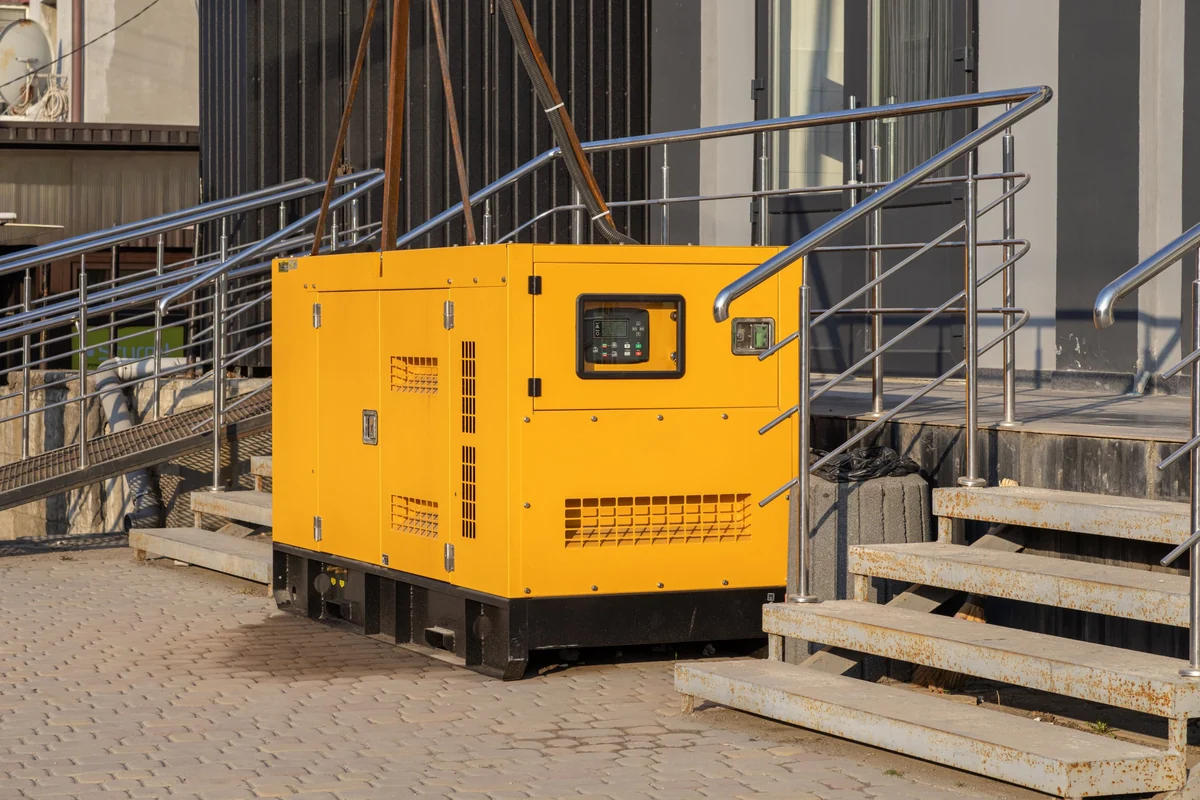
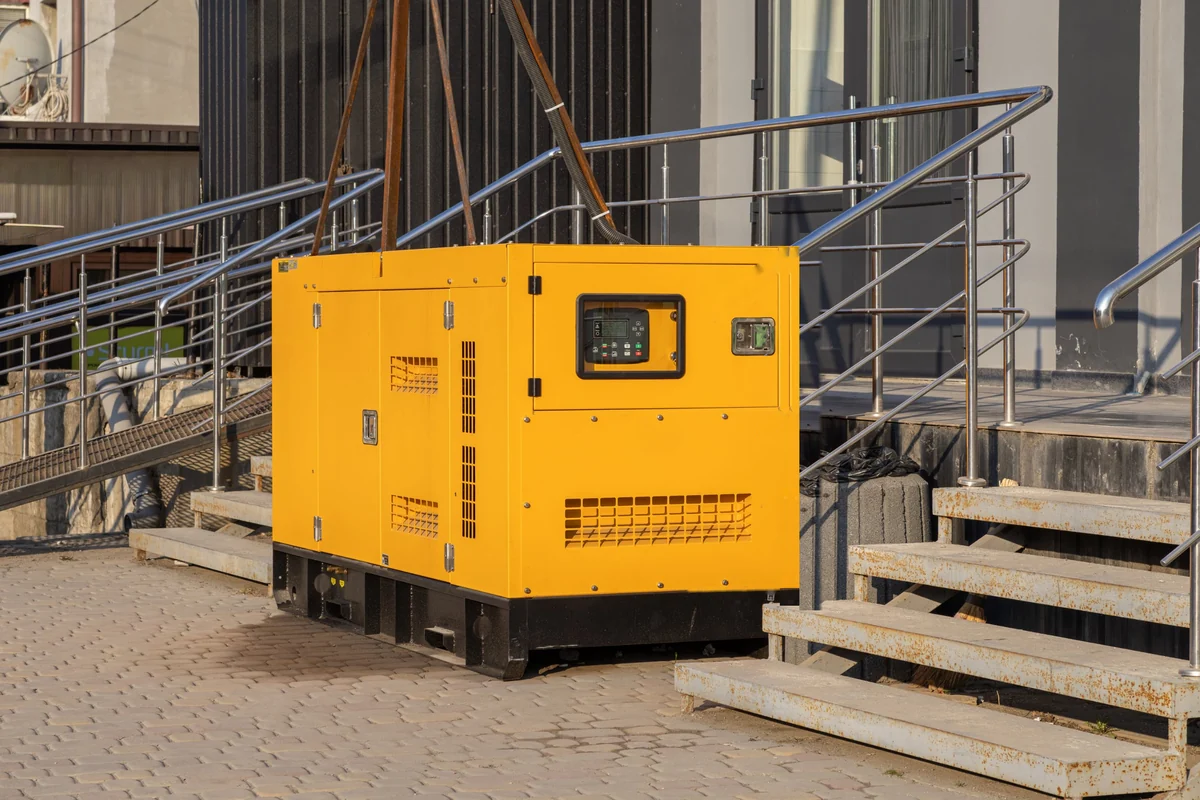
Add files via upload

Changed region(s): [[0.5858, 0.2812, 0.7092, 0.7812]]

diff --git a/index.html b/index.html
@@ -25,7 +25,7 @@
 <link rel="icon" type="image/png" sizes="32x32" href="assets/favicon-32.png">
 <link rel="icon" type="image/png" sizes="192x192" href="assets/icon-192.png">
 <link rel="apple-touch-icon" href="assets/apple-touch-icon.png">
-<link rel="preload" as="image" href="assets/capa-1800.webp" imagesrcset="assets/capa-1200.webp 1200w, assets/capa-1800.webp 1800w, assets/capa-2576.webp 2576w" imagesizes="(min-width:960px) 100vw, 160vw" fetchpriority="high">
+<link rel="preload" as="image" href="assets/capa-1800.webp?v=2" imagesrcset="assets/capa-1200.webp?v=2 1200w, assets/capa-1800.webp?v=2 1800w, assets/capa-2576.webp?v=2 2576w" imagesizes="(min-width:960px) 100vw, 160vw" fetchpriority="high">
 <link rel="preconnect" href="https://fonts.googleapis.com">
 <link rel="preconnect" href="https://fonts.gstatic.com" crossorigin>
 <link href="https://fonts.googleapis.com/css2?family=Lexend:wght@300;400;500;600;700;800&display=swap" rel="stylesheet">
@@ -559,7 +559,7 @@
   .en-faisca{stroke:var(--laranja);stroke-width:2.6;stroke-dasharray:.09 .91;stroke-dashoffset:1;animation:corrente 3.4s cubic-bezier(.45,.05,.55,.95) infinite}
   .hero .en-faisca{animation-direction:reverse}
   .en-faisca.dois{stroke:#FFD2B0;stroke-width:1.6;stroke-dasharray:.03 .97;animation-delay:1.7s;animation-duration:3.4s}
-  @keyframes corrente{from{stroke-dashoffset:1}to{stroke-dashoffset:-.09}}
+  @keyframes corrente{from{stroke-dashoffset:1}to{stroke-dashoffset:0}}
   /* Capa liga como um gerador partindo */
   .hero-bg img{animation:capaZoom 2.6s cubic-bezier(.22,1,.36,1) forwards,liga 1.5s .15s linear both}
   @keyframes liga{0%{filter:brightness(.12) saturate(.4)}10%{filter:brightness(.9)}13%{filter:brightness(.18)}22%{filter:brightness(1.05)}25%{filter:brightness(.35)}34%{filter:brightness(1.15) saturate(1.1)}60%,100%{filter:brightness(1) saturate(1)}}
@@ -662,12 +662,8 @@
   }
   /* Bases clicáveis */
   .base{text-align:left;color:var(--tinta);display:flex;flex-direction:column;gap:2px;transition:transform .2s,border-color .2s,box-shadow .2s}
-  .base:hover{transform:translateY(-3px);border-color:var(--laranja);box-shadow:0 14px 26px -16px rgba(254,102,0,.6)}
   .base i{font-style:normal;margin-top:8px;display:inline-flex;align-items:center;gap:6px;font-size:.8rem;font-weight:700;color:var(--laranja)}
   .base i svg{width:14px;height:14px}
-  .mapa .alvo{cursor:pointer}
-  .mapa .alvo:hover rect{fill:var(--laranja)}
-  .mapa .alvo:hover text{fill:#fff}
   .selo-foto{background:none!important;backdrop-filter:none!important;-webkit-backdrop-filter:none!important;padding:0!important;color:#E8E8E8;text-shadow:0 2px 10px rgba(0,0,0,.8)}
   /* Desempenho: animações pausam fora da tela e sem desfoque no celular */
   .fora,.fora *,.ev.fora::before{animation-play-state:paused!important}
@@ -733,15 +729,21 @@
   @media (prefers-reduced-motion:reduce){.hero-bg::before{animation:none}}
   @media (min-width:960px){
     .hero-bg{left:auto;right:0;width:min(68vw,1200px);top:-18%;height:118%}
-    .hero-bg img{object-position:19% 50%}
-    .hero-bg::after{background:linear-gradient(90deg,#0E0E0E 0%,rgba(14,14,14,.6) 14%,rgba(14,14,14,0) 34%),linear-gradient(0deg,#0E0E0E 0%,rgba(14,14,14,0) 26%),linear-gradient(180deg,rgba(14,14,14,.6) 0%,rgba(14,14,14,0) 30%),linear-gradient(270deg,#0E0E0E 0%,rgba(14,14,14,.75) 5%,rgba(14,14,14,0) 14%),radial-gradient(40% 45% at 100% 100%,#0E0E0E 0%,rgba(14,14,14,.85) 40%,rgba(14,14,14,0) 100%)!important}
+    .hero-bg img{object-position:30% 50%}
     .hero-grade{padding-block:160px 80px!important}
   }
-  @media (min-width:1500px){.hero-bg img{object-position:4% 50%}}
   @media (min-width:960px) and (max-width:1199px){
     .hero-bg{width:66vw;top:0;height:100%}
     .hero-bg img{object-position:40% 55%}
   }
+  /* Fotos coloridas com aproximar e afastar suave */
+  .serv-foto img,.serv-foto.pb img{filter:none!important;transform:scale(1);animation:respira 14s ease-in-out infinite alternate;will-change:transform}
+  .serv:nth-child(3) .serv-foto img{animation-delay:-4s}
+  .serv:nth-child(4) .serv-foto img{animation-delay:-8s}
+  .serv:hover .serv-foto img{transform:none}
+  @keyframes respira{from{transform:scale(1)}to{transform:scale(1.08)}}
+  .ev-foto img{animation:respira 16s ease-in-out infinite alternate}
+  @media (prefers-reduced-motion:reduce){.serv-foto img,.ev-foto img{animation:none}}
 </style>
 <script>document.documentElement.classList.add('js')</script>
 </head>
@@ -757,7 +759,7 @@
 
 <section class="hero">
   <div class="hero-bg" aria-hidden="true">
-    <img src="assets/capa-1800.webp" srcset="assets/capa-1200.webp 1200w, assets/capa-1800.webp 1800w, assets/capa-2576.webp 2576w" sizes="(min-width:960px) 100vw, 160vw" alt="" width="2576" height="1717" fetchpriority="high" decoding="async">
+    <img src="assets/capa-1800.webp?v=2" srcset="assets/capa-1200.webp?v=2 1200w, assets/capa-1800.webp?v=2 1800w, assets/capa-2576.webp?v=2 2576w" sizes="(min-width:960px) 100vw, 160vw" alt="" width="2576" height="1717" fetchpriority="high" decoding="async">
   </div>
   <div class="gen" id="gen" aria-hidden="true"></div>
   <span class="selo-foto"><svg viewBox="0 0 24 24" fill="none" stroke="currentColor" stroke-width="1.8" stroke-linecap="round" stroke-linejoin="round"><path d="M12 3l7.5 3v5.5c0 4.5-3.1 8.2-7.5 9.5-4.4-1.3-7.5-5-7.5-9.5V6z"/><path d="M8.8 12l2.3 2.3 4.2-4.6"/></svg>Distribuidor Geraforte</span>
@@ -805,7 +807,7 @@
         <span class="loc-cta">Solicitar orçamento <svg viewBox="0 0 24 24" fill="none" stroke="currentColor" stroke-width="2.4" stroke-linecap="round" stroke-linejoin="round"><path d="M5 12h14M13 6l6 6-6 6"/></svg></span>
       </button>
       <button class="serv vertical alt revela" data-servico="Manutenção" data-evento="servico_manutencao">
-        <span class="serv-foto retrato pb"><img src="assets/tecnico.webp" alt="Técnico da equipe própria fazendo manutenção" width="667" height="1000" loading="lazy"><span class="serv-num">24H</span></span>
+        <span class="serv-foto retrato "><img src="assets/tecnico.webp" alt="Técnico da equipe própria fazendo manutenção" width="667" height="1000" loading="lazy"><span class="serv-num">24H</span></span>
         <span class="serv-corpo"><span class="serv-titulo"><span class="serv-icos"><span class="serv-ico"><svg viewBox="0 0 64 64" fill="none" stroke="currentColor" stroke-width="3" stroke-linecap="round" stroke-linejoin="round" aria-hidden="true"><path pathLength="1" d="M42 8a9 9 0 0 0-8 12L12 42a4 4 0 0 0 6 6l22-22a9 9 0 0 0 12-8l-6 2-4-4 2-6a9 9 0 0 0-2-2z"/><path pathLength="1" d="M20 12l8 8M14 18l6-6 4 4-6 6zM38 40l12 12a4 4 0 0 0 6-6L44 34"/></svg></span><span class="serv-ico"><svg viewBox="0 0 64 64" fill="none" stroke="currentColor" stroke-width="3" stroke-linecap="round" stroke-linejoin="round" aria-hidden="true"><path pathLength="1" d="M20 18c0-6 4-9 9-9s9 3 9 9M18 18h22M22 18v4a7 7 0 0 0 14 0v-4"/><path pathLength="1" d="M14 56V44c0-6 5-10 10-10h10c3 0 5 1 7 3M24 34l5 8 5-8M29 42v14"/><path pathLength="1" d="M40 46h10M50 46a6 6 0 1 0 6-6v4h-4v4h4a6 6 0 0 1-6-2"/></svg></span></span><span>Manutenção e assistência técnica</span></span><span class="serv-texto"><p>Preventiva e corretiva, com equipe técnica própria a qualquer hora.</p><span class="pedir">Solicitar <svg viewBox="0 0 24 24" fill="none" stroke="currentColor" stroke-width="2.4" stroke-linecap="round" stroke-linejoin="round"><path d="M5 12h14M13 6l6 6-6 6"/></svg></span></span></span>
       </button>
       <button class="serv vertical revela" data-servico="Compra de gerador" data-evento="servico_venda">
@@ -813,14 +815,9 @@
         <span class="serv-corpo"><span class="serv-titulo"><span class="serv-icos"><span class="serv-ico"><svg viewBox="0 0 64 64" fill="none" stroke="currentColor" stroke-width="3" stroke-linecap="round" stroke-linejoin="round" aria-hidden="true"><path pathLength="1" d="M8 22h48v26H8zM12 48v5M52 48v5M8 53h48M24 22v-6h14v6M38 16h4v-4"/><path pathLength="1" d="M13 27h10v6H13zM13 37h10M13 42h10M28 27v16M33 27h18v16H33zM43 29l-4 7h5l-3 6"/></svg></span><span class="serv-ico"><svg viewBox="0 0 64 64" fill="none" stroke="currentColor" stroke-width="3" stroke-linecap="round" stroke-linejoin="round" aria-hidden="true"><path pathLength="1" d="M24 22l3-5 5 2 2-5 6 2-1 5 5 3-2 5 4 4-4 4 1 5-5 2-1 5-6-1-3 4-4-3-5 2-2-5-5-1 1-6-4-3 3-5-2-5 5-1z"/><circle pathLength="1" cx="27" cy="34" r="6"/><path pathLength="1" d="M46 12l2-3 3 1 2-2 3 2-1 3 3 2-1 3 2 2-3 2v3l-3 1-1 3-3-1-2 2-2-2-3 1-1-3-3-1 1-3-2-2 2-3-1-3 3-1z"/><circle pathLength="1" cx="48" cy="20" r="3.5"/></svg></span></span><span>Venda de geradores e peças</span></span><span class="serv-texto"><p>Geradores Geraforte, peças e soluções fabricadas sob medida.</p><span class="pedir">Solicitar <svg viewBox="0 0 24 24" fill="none" stroke="currentColor" stroke-width="2.4" stroke-linecap="round" stroke-linejoin="round"><path d="M5 12h14M13 6l6 6-6 6"/></svg></span></span></span>
       </button>
       <button class="serv alt revela" data-servico="Análise de energia" data-evento="servico_analise">
-        <span class="serv-foto paisagem pb"><img src="assets/tecnico-capacete.webp" alt="Técnico avaliando a instalação elétrica" width="1000" height="667" loading="lazy"><span class="serv-num">ANÁLISE</span></span>
+        <span class="serv-foto paisagem "><img src="assets/tecnico-capacete.webp" alt="Técnico avaliando a instalação elétrica" width="1000" height="667" loading="lazy"><span class="serv-num">ANÁLISE</span></span>
         <span class="serv-corpo"><span class="serv-titulo"><span class="serv-icos"><span class="serv-ico"><svg viewBox="0 0 64 64" fill="none" stroke="currentColor" stroke-width="3" stroke-linecap="round" stroke-linejoin="round" aria-hidden="true"><path pathLength="1" d="M52 22a22 22 0 0 0-36-10M12 42a22 22 0 0 0 36 10M14 6v7h7M50 58v-7h-7"/><circle pathLength="1" cx="27" cy="27" r="8"/><path pathLength="1" d="M33 33l5 5M30 46v-4M36 46v-8M42 46v-12M48 46v-16"/></svg></span></span><span>Análise de energia</span></span><span class="serv-texto"><p>Dimensionamos o gerador ideal, com eficiência, economia e segurança para a sua operação.</p><span class="pedir">Solicitar análise <svg viewBox="0 0 24 24" fill="none" stroke="currentColor" stroke-width="2.4" stroke-linecap="round" stroke-linejoin="round"><path d="M5 12h14M13 6l6 6-6 6"/></svg></span></span></span>
       </button>
-      <div class="serv-cta revela">
-        <div class="pilulas"><span class="pilula escura">Não sabe a</span><span class="pilula clara">potência?</span></div>
-        <p>Use a calculadora de carga e veja uma estimativa do gerador ideal em poucos cliques.</p>
-        <a class="btn btn-preto" href="#calculadora" data-evento="calculadora_atalho">Calcular minha carga <svg viewBox="0 0 24 24" fill="none" stroke="currentColor" stroke-width="2.4" stroke-linecap="round" stroke-linejoin="round"><path d="M5 12h14M13 6l6 6-6 6"/></svg></a>
-      </div>
     </div>
   </div>
 </section>
@@ -910,8 +907,8 @@
       <h2 class="titulo-sec">Do litoral ao Cariri, <em>sem deixar parar.</em></h2>
       <p class="sub-sec">Bases em Fortaleza e em Barbalha para atender o Ceará de ponta a ponta.</p>
       <div class="bases-cards">
-        <button class="base" type="button" data-cidade="Fortaleza"><b>Fortaleza</b><span>Capital e Região Metropolitana</span><i>Solicitar <svg viewBox="0 0 24 24" fill="none" stroke="currentColor" stroke-width="2.4" stroke-linecap="round" stroke-linejoin="round"><path d="M5 12h14M13 6l6 6-6 6"/></svg></i></button>
-        <button class="base" type="button" data-cidade="Barbalha"><b>Barbalha</b><span>Cariri e interior do estado</span><i>Solicitar <svg viewBox="0 0 24 24" fill="none" stroke="currentColor" stroke-width="2.4" stroke-linecap="round" stroke-linejoin="round"><path d="M5 12h14M13 6l6 6-6 6"/></svg></i></button>
+        <div class="base"><b>Fortaleza</b><span>Capital e Região Metropolitana</span></div>
+        <div class="base"><b>Barbalha</b><span>Cariri e interior do estado</span></div>
       </div>
     </div>
     <div class="mapa revela" role="img" aria-label="Mapa do Ceará com as bases da Botelho em Fortaleza e Barbalha">
@@ -938,8 +935,8 @@
         <circle class="pin" cx="257.3" cy="91.6" r="7"/>
         <circle class="pin-pulso" cx="199.7" cy="357.9" r="7" style="animation-delay:1s"/>
         <circle class="pin" cx="199.7" cy="357.9" r="7"/>
-        <g class="alvo" data-cidade="Fortaleza" role="button" tabindex="0" aria-label="Solicitar orçamento em Fortaleza"><circle cx="257.3" cy="91.6" r="16" fill="transparent"/><g class="rotulo"><rect x="271.3" y="77.6" width="92" height="28" rx="14"/><text x="317.3" y="96.6" text-anchor="middle">Fortaleza</text></g></g>
-        <g class="alvo" data-cidade="Barbalha" role="button" tabindex="0" aria-label="Solicitar orçamento em Barbalha"><circle cx="199.7" cy="357.9" r="16" fill="transparent"/><g class="rotulo"><rect x="213.7" y="343.9" width="88" height="28" rx="14"/><text x="257.7" y="362.9" text-anchor="middle">Barbalha</text></g></g>
+        <g class="alvo"><circle cx="257.3" cy="91.6" r="16" fill="transparent"/><g class="rotulo"><rect x="271.3" y="77.6" width="92" height="28" rx="14"/><text x="317.3" y="96.6" text-anchor="middle">Fortaleza</text></g></g>
+        <g class="alvo"><circle cx="199.7" cy="357.9" r="16" fill="transparent"/><g class="rotulo"><rect x="213.7" y="343.9" width="88" height="28" rx="14"/><text x="257.7" y="362.9" text-anchor="middle">Barbalha</text></g></g>
       </svg>
     </div>
   </div>
@@ -982,9 +979,6 @@
       <a class="ig" id="linkIg" href="https://www.instagram.com/botelhogeradores/" target="_blank" rel="noopener" aria-label="Instagram da Botelho Genset">
         <svg viewBox="0 0 32 32" fill="none" stroke="currentColor" stroke-width="1.9" stroke-linecap="round" stroke-linejoin="round"><path d="M10.5 5.5h11a5 5 0 0 1 5 5v11a5 5 0 0 1-5 5h-11a5 5 0 0 1-5-5v-11a5 5 0 0 1 5-5z"/><circle cx="16" cy="16" r="5"/><path d="M22 9.6h.1"/></svg>
       </a>
-      <a class="ig" id="linkWaRodape" href="https://wa.me/5585996581177" target="_blank" rel="noopener" aria-label="WhatsApp da Botelho Genset"><svg viewBox="0 0 24 24" fill="none" stroke="currentColor" stroke-width="1.9" stroke-linecap="round" stroke-linejoin="round"><path d="M3.5 20.5l1.3-4A8.5 8.5 0 1 1 8 19.6z"/><path d="M9 8.5c0 3.5 3 6.5 6.5 6.5l1-1.6-2-1-1 .9c-1-.4-2-1.4-2.4-2.4l.9-1-1-2z"/></svg></a>
-      <a class="ig" href="tel:+5585996581177" aria-label="Ligar para a Botelho Genset"><svg viewBox="0 0 24 24" fill="none" stroke="currentColor" stroke-width="1.9" stroke-linecap="round" stroke-linejoin="round"><path d="M5 4h4l2 5-2.5 1.5a11 11 0 0 0 5 5L15 13l5 2v4a2 2 0 0 1-2 2A16 16 0 0 1 3 6a2 2 0 0 1 2-2"/></svg></a>
-      <a class="ig" href="mailto:ederson@botelhogeradores.com.br" aria-label="E-mail da Botelho Genset"><svg viewBox="0 0 24 24" fill="none" stroke="currentColor" stroke-width="1.9" stroke-linecap="round" stroke-linejoin="round"><rect x="3" y="5" width="18" height="14" rx="2"/><path d="M3 7l9 6 9-6"/></svg></a>
     </div>
     <span class="local"><svg viewBox="0 0 32 32" fill="none" stroke="currentColor" stroke-width="1.8" stroke-linecap="round" stroke-linejoin="round"><path d="M16 28.5s-8.5-7.8-8.5-14.6a8.5 8.5 0 0 1 17 0c0 6.8-8.5 14.6-8.5 14.6z"/><path d="M17 9.5l-2.8 4.6h3.6l-2.6 4.4"/></svg>Fortaleza e Barbalha-CE</span>
   </div>
@@ -1153,7 +1147,7 @@ var ADS_ROTULO_WHATSAPP = '';  // rótulo da conversão de clique no WhatsApp (o
 
 var msgPadrao = 'Olá, Botelho Genset! Vim pelo Instagram e gostaria de mais informações.';
 var linkPadrao = 'https://wa.me/' + WHATSAPP + '?text=' + encodeURIComponent(msgPadrao);
-['linkFale','waFlutuante','linkPlantao','linkWaRodape'].forEach(function(id){ document.getElementById(id).href = linkPadrao; });
+['linkFale','waFlutuante','linkPlantao'].forEach(function(id){ document.getElementById(id).href = linkPadrao; });
 document.getElementById('linkIg').href = 'https://www.instagram.com/' + INSTAGRAM + '/';
 document.getElementById('linkTel').href = 'tel:+' + WHATSAPP;
 
@@ -1297,7 +1291,11 @@ document.querySelectorAll('[data-cidade]').forEach(function(b){
     [].concat(lista.map(function(c){ return m(P[c[0]][0], P[c[0]][1]); })).forEach(function(p){
       h += '<circle class="g-ponto" cx="' + p[0] + '" cy="' + p[1] + '" r="4"/>';
     });
-    svg.innerHTML = h;
+    var novo = document.createElementNS('http://www.w3.org/2000/svg', 'svg'); novo.innerHTML = h;
+    var atuais = svg.children, vindos = novo.children;
+    if (atuais.length === vindos.length && atuais.length) {
+      for (var i = 0; i < vindos.length; i++) { if (vindos[i].getAttribute('d')) atuais[i].setAttribute('d', vindos[i].getAttribute('d')); }
+    } else svg.innerHTML = h;
     svg.querySelectorAll('.g-linha').forEach(function(l){ l.style.setProperty('--l', Math.ceil(l.getTotalLength()) + 1); });
   }
   function linha(pts){ return '<path class="g-linha" d="M' + pts.map(function(p){ return p[0].toFixed(1) + ' ' + p[1].toFixed(1); }).join('L') + '"/>'; }
@@ -1313,7 +1311,8 @@ document.querySelectorAll('[data-cidade]').forEach(function(b){
   }
   var t; function agenda(){ clearTimeout(t); t = setTimeout(desenha, 120); }
   desenha();
-  addEventListener('resize', agenda);
+  var larg = innerWidth;
+  addEventListener('resize', function(){ if (innerWidth !== larg) { larg = innerWidth; agenda(); } });
   if (document.fonts && document.fonts.ready) document.fonts.ready.then(desenha);
   setTimeout(function(){ desenha(); gen.classList.add('on'); }, 1700);
 })();
@@ -1322,7 +1321,7 @@ document.querySelectorAll('[data-cidade]').forEach(function(b){
 (function(){
   if (!('IntersectionObserver' in window)) return;
   var io = new IntersectionObserver(function(ents){ ents.forEach(function(en){ en.target.classList.toggle('fora', !en.isIntersecting); }); }, {rootMargin:'100px'});
-  document.querySelectorAll('.fios,.energia,.faixa-caixa,.cinetico,.mapa,.processo-lista,.hero-bg,.ev,.gen').forEach(function(el){ io.observe(el); });
+  document.querySelectorAll('.fios,.energia,.faixa-caixa,.cinetico,.mapa,.processo-lista,.hero-bg,.ev,.gen,.serv-foto').forEach(function(el){ io.observe(el); });
 })();
 
 /* Faixa */
